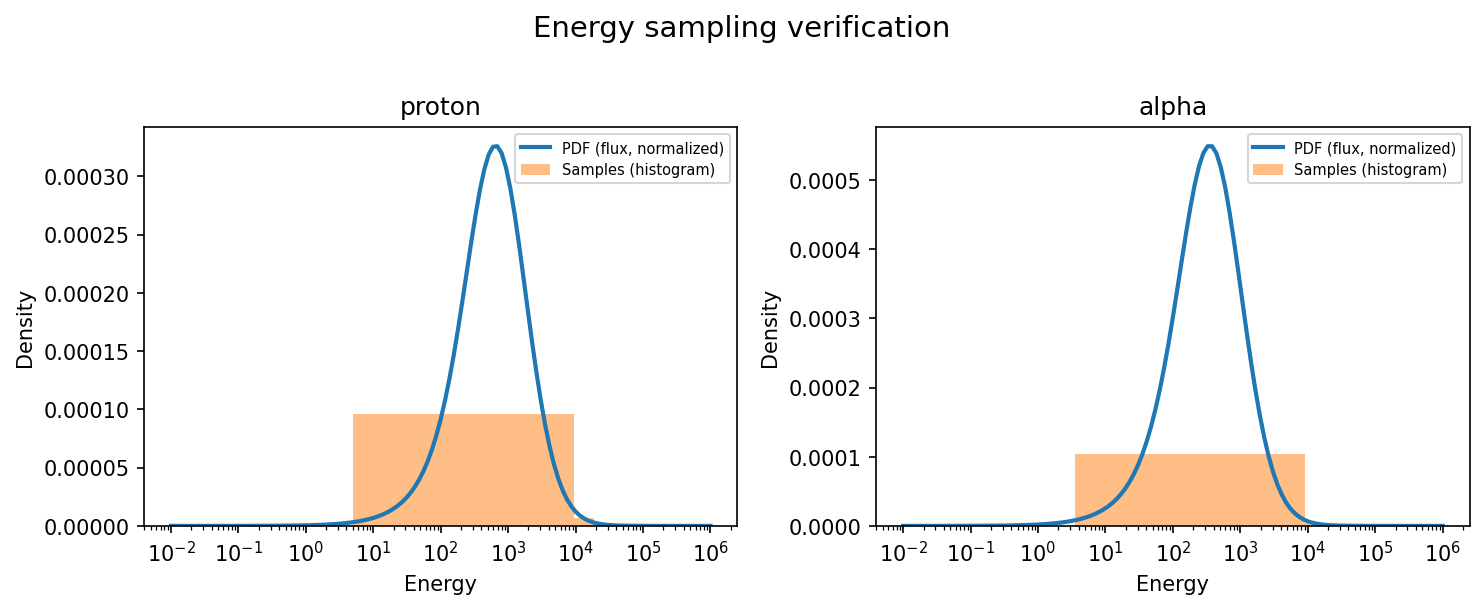
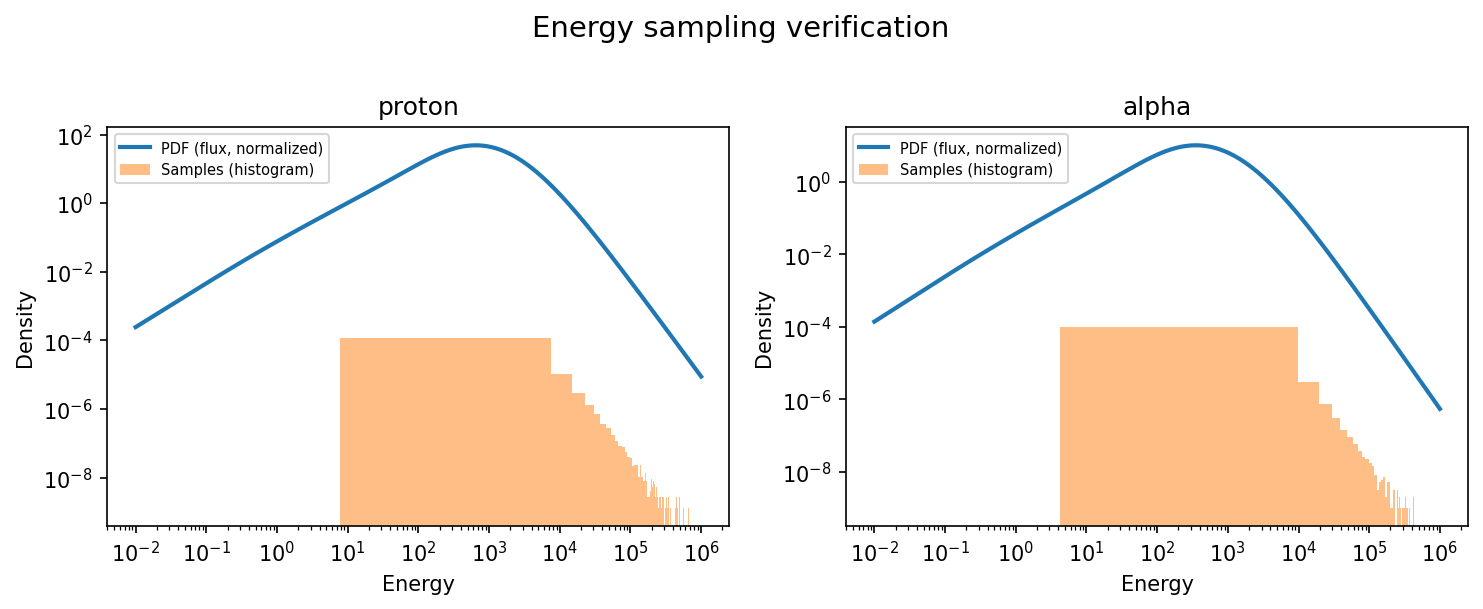
Cleanup  unused files and general sync

diff --git a/bayesian_optimization/optimizer_py/csv_scaler.py b/bayesian_optimization/optimizer_py/csv_scaler.py
@@ -1,18 +1,10 @@
 import numpy as np
 import pandas as pd
 import matplotlib.pyplot as plt
-import scipy.stats as stats
 
 def read_energy_data(file_path):
     """
-    Reads energy data from a CSV file and returns a DataFrame.
-    
-    Parameters:
-    file_path (str): The path to the CSV file containing energy data.
-    
-    Returns:
-    np.ndarray: A DataFrame containing the energy steps (column 1).
-    pd.DataFrame: A DataFrame containing the energy data (columns 1 to end).
+    Reads energy data from a CSV file and returns a Numpy array and a DataFrame.
     """
     full_dataset = pd.read_csv(file_path)
     energy_steps = np.array(full_dataset.iloc[:, 0].values)
@@ -22,13 +14,7 @@ def read_energy_data(file_path):
 def build_log_scaled_dataset(energy_steps, data):
     """
     Builds a log-scaled dataset from the energy steps and data.
-    
-    Parameters:
-    energy_steps (np.ndarray): A numpy array containing the energy steps.
-    data (pd.DataFrame): A DataFrame containing the energy data.
-    
-    Returns:
-    pd.DataFrame: A new DataFrame with log-scaled energy steps and data.
+    Returns: a new DataFrame with log-scaled energy steps and data.
     """
     log_energy_steps = np.log(energy_steps)
     # Map log_energy_steps to the same interval as the original energy steps for better visualization
@@ -37,43 +23,6 @@ def build_log_scaled_dataset(energy_steps, data):
     # Map log_scaled_data to the same interval as the original data for better visualization
     log_scaled_data = (log_scaled_data - log_scaled_data.min()) / (log_scaled_data.max() - log_scaled_data.min()) * (data.max().max() - data.min().min()) + data.min().min()
     log_scaled_dataset = pd.DataFrame(log_scaled_data, columns=data.columns)
-    log_scaled_dataset.insert(0, 'Energy', log_energy_steps)
-    return log_scaled_dataset
-
-def decompress_log_scaled_samples(log_scaled_samples, data):
-    """
-    Decompresses log-scaled samples back to their original scale.
-    
-    Parameters:
-    log_scaled_samples (dict[str, np.ndarray]): A dictionary containing log-scaled samples for each particle.
-    
-    Returns:
-    dict[str, np.ndarray]: A dictionary containing decompressed samples for each particle.
-    """
-    decompressed_samples = {}
-    for particle, samples in log_scaled_samples.items():
-        # Remap log-scaled samples back to the same interval as the log data
-        log_min = np.log(data[particle].replace(0, np.nan)).min()
-        log_max = np.log(data[particle].replace(0, np.nan)).max()
-        samples = (samples - samples.min()) / (samples.max() - samples.min()) * (log_max - log_min) + log_min
-        decompressed_samples[particle] = np.exp(samples)
-    return decompressed_samples
-
-def build_energy_scaled_dataset(energy_steps, data):
-    """
-    Builds an energy-scaled dataset from the energy steps and data.
-    
-    Parameters:
-    energy_steps (np.ndarray): A numpy array containing the energy steps.
-    data (pd.DataFrame): A DataFrame containing the energy data.
-    
-    Returns:
-    pd.DataFrame: A new DataFrame with energy-scaled data.
-    """
-    log_energy_steps = np.log(energy_steps)
-    # Map log_energy_steps to the same interval as the original energy steps for better visualization
-    log_energy_steps = (log_energy_steps - log_energy_steps.min()) / (log_energy_steps.max() - log_energy_steps.min()) * (energy_steps.max() - energy_steps.min()) + energy_steps.min()
-    log_scaled_dataset = pd.DataFrame(data, columns=data.columns)
     log_scaled_dataset.insert(0, 'Energy', log_energy_steps)
     return log_scaled_dataset
 
@@ -93,43 +42,6 @@ def plot_log_scaled_data(log_scaled_dataset):
     plt.legend()
     plt.grid()
     plt.show()
-
-def compute_column_means(log_scaled_dataset):
-    """
-    Computes the mean of each column in the DataFrame.
-    
-    Parameters:
-    log_scaled_dataset (pd.DataFrame): The input DataFrame containing log-scaled energy data.
-    
-    Returns:
-    A numpy vector containing the mean of each column.
-    """
-    means = []
-    for column in log_scaled_dataset.columns[1:]:  # Skip the first column (log_energy_steps)
-        num = np.trapezoid(log_scaled_dataset['Energy'].values*log_scaled_dataset[column].values, log_scaled_dataset['Energy'].values)
-        denom = np.trapezoid(log_scaled_dataset[column].values, log_scaled_dataset['Energy'].values)
-        means.append(num / denom if denom != 0 else 0)
-    return np.array(means)
-
-def compute_column_variances(log_scaled_dataset):
-    """
-    Computes the variance of each column in the DataFrame.
-    
-    Parameters:
-    log_scaled_dataset (pd.DataFrame): The input DataFrame containing log-scaled energy data.
-    
-    Returns:
-    A numpy vector containing the variance of each column.
-    """
-    variances = []
-    means = compute_column_means(log_scaled_dataset)
-    for column in log_scaled_dataset.columns[1:]:  # Skip the first column (log_energy_steps)
-        mean = means[log_scaled_dataset.columns.get_loc(column) - 1]  # Get the mean for the current column
-        num = np.trapezoid((log_scaled_dataset['Energy'].values)**2 * log_scaled_dataset[column].values, log_scaled_dataset['Energy'].values)
-        denom = np.trapezoid(log_scaled_dataset[column].values, log_scaled_dataset['Energy'].values)
-        mean_sq = num / denom if denom != 0 else 0
-        variances.append(mean_sq - mean**2)
-    return np.array(variances)
     
 if __name__ == "__main__":
     filepath = '../data/flux_data_clean.csv'
@@ -137,6 +49,4 @@ if __name__ == "__main__":
     print("Energy data read successfully.")
     log_scaled_data = build_log_scaled_dataset(energy_steps, data)
     log_scaled_data.to_csv('../data/log_scaled_flux_data.csv', index=False)
-    energy_scaled_data = build_energy_scaled_dataset(energy_steps, data)
-    energy_scaled_data.to_csv('../data/energy_scaled_flux_data.csv', index=False)
-    print("Log-scaled and energy-scaled datasets created and saved.")
+    print("Log-scaled dataset created and saved.")

diff --git a/bayesian_optimization/optimizer_py/LogDataSampler.py b/bayesian_optimization/optimizer_py/LogDataSampler.py
@@ -5,19 +5,12 @@ Each particle has a discrete (Energy, Flux) spectrum. This script treats the
 flux as proportional to a probability density function (PDF) and draws random
 energy samples via inverse-CDF sampling on the piecewise-linear interpolation
 of that PDF.
-
-Usage
------
-    python sample_energy_distributions.py
-
-Or import and call `sample_particle` / `sample_all_particles` directly.
 """
 
 import numpy as np
 import pandas as pd
 from scipy.interpolate import interp1d
 import matplotlib.pyplot as plt
-from csv_scaler import decompress_log_scaled_samples, build_log_scaled_dataset, read_energy_data
 
 # ---------------------------------------------------------------------------
 # Core sampling helpers
@@ -31,15 +24,13 @@ def build_sampler(energy: np.ndarray, flux: np.ndarray) -> callable:
     We integrate it to get the CDF, normalise, then invert it so that uniform
     U(0,1) draws map to energy samples.
 
-    Parameters
-    ----------
+    Parameters:
     energy : 1-D array, shape (N,)
         Sorted energy values (any units, e.g. MeV/nucleon).
     flux   : 1-D array, shape (N,)
         Flux values (must be ≥ 0; treated as unnormalised PDF weights).
 
-    Returns
-    -------
+    Returns:
     sampler : callable
         sampler(n_samples) → np.ndarray of shape (n_samples,)
     """
@@ -77,16 +68,14 @@ def build_sampler(energy: np.ndarray, flux: np.ndarray) -> callable:
 
 def sample_particle(df: pd.DataFrame, particle: str, n_samples: int = 1000) -> np.ndarray:
     """
-    Draw `n_samples` energy values from the distribution of `particle`.
+    Draw n_samples energy values from the distribution of particle.
 
-    Parameters
-    ----------
+    Parameters:
     df        : DataFrame with an 'Energy' column and one column per particle.
     particle  : Column name of the particle (e.g. 'proton', 'Fe56').
     n_samples : Number of samples to draw.
 
-    Returns
-    -------
+    Returns:
     samples : np.ndarray, shape (n_samples,)
     """
     if particle not in df.columns:
@@ -100,11 +89,8 @@ def sample_particle(df: pd.DataFrame, particle: str, n_samples: int = 1000) -> n
 def sample_all_particles(df: pd.DataFrame,
                          n_samples: int = 1000) -> dict[str, np.ndarray]:
     """
-    Draw `n_samples` energy values for every particle in `df`.
-
-    Returns
-    -------
-    dict mapping particle name → np.ndarray of sampled energies
+    Draw n_samples energy values for every particle in df.
+    Returns dict mapping particle name → np.ndarray of sampled energies.
     """
     particles = df.columns[1:].tolist()   # everything except 'Energy'
     results   = {}
@@ -116,7 +102,6 @@ def sample_all_particles(df: pd.DataFrame,
             print(f"  [skip] {particle}: {exc}")
 
     return results
-
 
 # ---------------------------------------------------------------------------
 # Optional visualisation
@@ -171,13 +156,12 @@ def plot_samples(df: pd.DataFrame,
     print("Verification plot saved to sampling_verification.png")
     plt.show()
 
-
 # ---------------------------------------------------------------------------
 # Main
 # ---------------------------------------------------------------------------
 
 if __name__ == "__main__":
-    DATA_PATH = "../data/flux_data_clean.csv"
+    DATA_PATH = "../data/log_scaled_flux_data.csv"
     N_SAMPLES = 100_000
 
     print(f"Loading data from '{DATA_PATH}' …")
@@ -191,9 +175,6 @@ if __name__ == "__main__":
 
     print(f"Sampling {N_SAMPLES:,} energies per particle …")
     samples = sample_all_particles(df, n_samples=N_SAMPLES)
-    #samples = decompress_log_scaled_samples(samples, data)  # Undo log-scaling
-    #print("\nExample — 5 proton energy samples:")
-    #print(samples["proton"][:10])
 
     # Print summary statistics
     print(f"\n{'Particle':<10}  {'Mean E':>12}  {'Median E':>12}  "
@@ -203,10 +184,6 @@ if __name__ == "__main__":
         print(f"{particle:<10}  {np.mean(s):>12.4g}  {np.median(s):>12.4g}  "
               f"{np.percentile(s, 5):>10.4g}  {np.percentile(s, 95):>10.4g}")
 
-    # Optional: visualise first 6 particles
+    # Optional: visualise first 2 particles
     print("\nGenerating verification plots …")
     plot_samples(df, samples, particles_to_plot=particles[:2], log_scale=True)
-
-    # --- Example: single-particle usage ---
-    print("\nExample — 5 proton energy samples:")
-    print(sample_particle(df, "proton", n_samples=5))

diff --git a/bayesian_optimization/optimizer_py/bo.py b/bayesian_optimization/optimizer_py/bo.py
@@ -13,11 +13,16 @@ from gpytorch.mlls import ExactMarginalLogLikelihood
 
 # Import standard libraries
 import numpy as np
+import pandas as pd
 import matplotlib.pyplot as plt
 from scipy.stats import norm
 import os
 import csv
 import time
+
+# Import externals functions
+from LogDataSampler import sample_all_particles
+from PlotResults import interactive_plot
 
 # Set device for PyTorch (use GPU if available)
 device = torch.device("cpu")
@@ -54,6 +59,10 @@ UPPER = torch.tensor(
 D = 5 * K
 unit_bounds = torch.zeros(2, D, dtype=torch.double, device=device)
 unit_bounds[1] = 1.0  # upper bounds all 1
+
+# Read initial data from log files
+FILEPATH = "../data/log_scaled_flux_data.csv"
+LOG_DATA = pd.read_csv(FILEPATH)
 
 # Normalization functions to scale parameters to [0, 1] for optimization
 def normalize(X):
@@ -125,6 +134,10 @@ def objective_function(seed, centers, normals):
     # Change coordinates from spherical to cartesian for simulator input
     centers_cart = spherical_to_cartesian(centers[:, 0], centers[:, 1], centers[:, 2]) # shape: (K, 3)
     normals_cart = spherical_to_cartesian(np.ones(K), normals[:, 0], normals[:, 1]) # shape: (K, 3) - unit vectors for normals
+    
+    # Sample particle energies from the log data distribution (for all particles, but we can choose one if needed)
+    samples = sample_all_particles(LOG_DATA, n_samples=N)
+    
     # Call the C++ simulator
     expected_energy = simulator.launch_simulation(seed, N, K, I, R, centers_cart, normals_cart)
     # Take the log of energy to stabilize optimization and handle wide range of values
@@ -257,5 +270,8 @@ def main():
     plt.xlabel("Iteration")
     plt.ylabel("Expected Improvement")
     plt.show()
+
+    # Plot the best configuration
+    interactive_plot(result_file=f"configurations/best_configuration_K{K}_{SEED}.csv")
 
 if __name__ == "__main__":    main()
